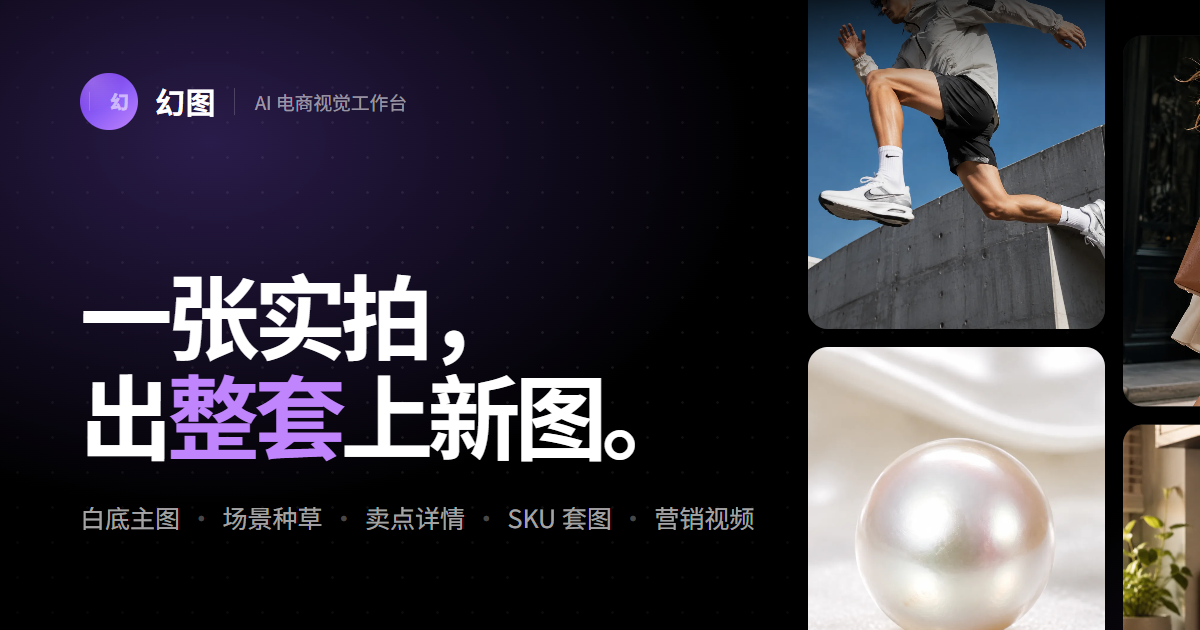
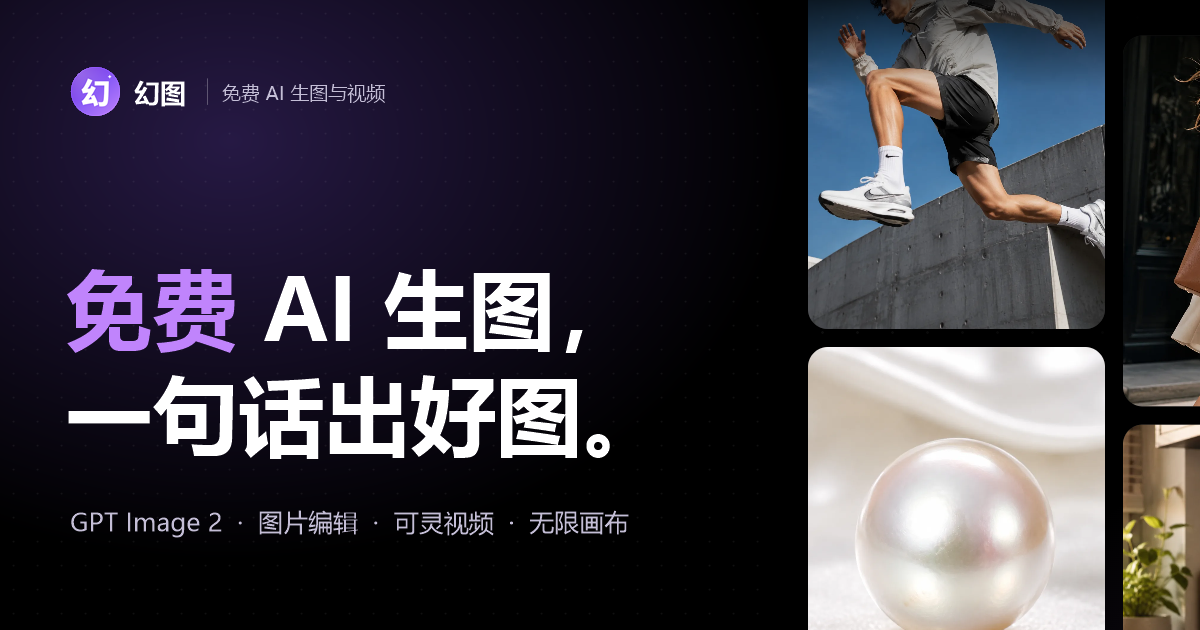
feat(web): position the site as free AI image and video generation

Changed region(s): [[0.0617, 0.4222, 0.555, 0.754], [0.0617, 0.7841, 0.6475, 0.8444], [0.0617, 0.0905, 0.3392, 0.2111]]

diff --git a/web/src/app/(user)/page.tsx b/web/src/app/(user)/page.tsx
@@ -22,11 +22,11 @@ const heroColumns = Array.from({ length: 3 }, (_, column) => heroMedia.filter((_
 const galleryColumns = Array.from({ length: 5 }, (_, column) => galleryMedia.filter((_, index) => index % 5 === column));
 const galleryRatios = ["aspect-[3/4]", "aspect-square", "aspect-[4/5]", "aspect-[5/4]", "aspect-[2/3]"];
 const galleryOffsets = ["pt-0", "pt-8", "pt-16", "pt-5", "pt-11"];
-const capabilityNames = ["图片生成", "营销视频", "无限画布", "灵感模板", "商品素材", "模型广场"];
+const capabilityNames = ["GPT Image 2", "可灵视频", "图片编辑", "无限画布", "灵感模板", "API 接入"];
 const workflow = [
-    { step: "01", title: "上传实拍", detail: "一张商品图就够，包装、Logo 和品牌素材可选。" },
-    { step: "02", title: "选择用途", detail: "白底主图、场景图或详情图，也可以自己描述画面。" },
-    { step: "03", title: "挑选交付", detail: "选出满意的图直接下载上架，或继续出整套。" },
+    { step: "01", title: "写一句话", detail: "描述想要的画面，或上传一张参考图。" },
+    { step: "02", title: "选择模型", detail: "GPT Image 2 出图改图，可灵 Kling 生成视频，都免费。" },
+    { step: "03", title: "下载或继续改", detail: "满意就直接下载，也能放进无限画布接着创作。" },
 ];
 
 export default function IndexPage() {
@@ -51,18 +51,14 @@ export default function IndexPage() {
         <main className="h-full overflow-y-auto bg-background text-foreground">
             <section className="overflow-hidden border-b border-border px-4 pb-8 pt-8 sm:px-8 lg:px-12">
                 <div className="mx-auto max-w-[1320px]">
-                    <motion.div initial={reducedMotion ? false : { opacity: 0, y: 12 }} animate={{ opacity: 1, y: 0 }} transition={{ duration: 0.5 }} className="max-w-3xl">
-                        <p className="text-xs font-medium uppercase tracking-[.2em] text-primary">电商上新 AI 工作台</p>
-                        <h1 className="mt-3 text-[34px] font-semibold leading-[1.12] tracking-[-.05em] sm:text-[44px]">一张实拍，出整套上新图。</h1>
-                        <p className="mt-3 max-w-xl text-sm leading-6 text-muted-foreground">上传商品图，生成白底主图、场景种草、卖点详情和 SKU 套图，直接用于上架。</p>
+                    <motion.div initial={reducedMotion ? false : { y: 12 }} animate={{ y: 0 }} transition={{ duration: 0.5 }} className="max-w-3xl">
+                        <p className="text-xs font-medium uppercase tracking-[.2em] text-primary">幻图 · 免费 AI 生图</p>
+                        <h1 className="mt-3 text-[34px] font-semibold leading-[1.12] tracking-[-.05em] sm:text-[44px]">免费 AI 生图，一句话出好图。</h1>
+                        <p className="mt-3 max-w-xl text-sm leading-6 text-muted-foreground">用 GPT Image 2 文生图、图生图和改图，用可灵 Kling 生成视频，注册即可免费使用。</p>
                         <div className="mt-6 flex flex-wrap items-center gap-4">
-                            <Link
-                                href="/image?preset=product-main"
-                                prefetch={false}
-                                className="flex min-h-12 min-w-0 items-center gap-3 rounded-xl border border-border bg-card px-4 text-sm text-muted-foreground transition hover:border-primary/30 sm:min-w-[360px]"
-                            >
+                            <Link href="/image" prefetch={false} className="flex min-h-12 min-w-0 items-center gap-3 rounded-xl border border-border bg-card px-4 text-sm text-muted-foreground transition hover:border-primary/30 sm:min-w-[360px]">
                                 <Sparkles className="size-4 shrink-0 text-primary" />
-                                <span className="flex-1">上传商品图，先出一张白底主图</span>
+                                <span className="flex-1">输入一句话，免费生成第一张图</span>
                                 <span className="grid size-8 shrink-0 place-items-center rounded-lg bg-primary text-primary-foreground">
                                     <ArrowUpRight className="size-4" />
                                 </span>
@@ -86,7 +82,7 @@ export default function IndexPage() {
                                 >
                                     {column.map((src, index) => (
                                         <Link key={`${src}-${index}`} href="/image?preset=product-main" prefetch={false} className="group relative block aspect-[4/5] overflow-hidden rounded-xl border border-border bg-card">
-                                            <NextImage src={src} alt="AI 商品视觉作品" fill sizes="(max-width: 640px) 50vw, (max-width: 1024px) 33vw, 33vw" className="object-cover transition duration-700 group-hover:scale-[1.05]" />
+                                            <NextImage src={src} alt="AI 生成的图片作品" fill loading="eager" sizes="(max-width: 640px) 50vw, (max-width: 1024px) 33vw, 33vw" className="object-cover transition duration-700 group-hover:scale-[1.05]" />
                                         </Link>
                                     ))}
                                 </motion.div>
@@ -113,8 +109,8 @@ export default function IndexPage() {
             <section className="mx-auto max-w-[1360px] px-5 py-20 sm:px-8 lg:px-12">
                 <div className="mb-8 max-w-2xl">
                     <p className="text-xs font-medium uppercase tracking-[.18em] text-primary">精选作品</p>
-                    <h2 className="mt-3 text-3xl font-semibold tracking-[-.04em] sm:text-4xl">一件商品，不止一张图。</h2>
-                    <p className="mt-3 max-w-xl text-sm leading-6 text-muted-foreground">看看不同品类、材质和风格的成品效果，点击任意一张，用同款方式做你的商品。</p>
+                    <h2 className="mt-3 text-3xl font-semibold tracking-[-.04em] sm:text-4xl">看看 AI 生成的效果。</h2>
+                    <p className="mt-3 max-w-xl text-sm leading-6 text-muted-foreground">不同题材和风格的成品，点击任意一张，用同样的方式开始创作。</p>
                 </div>
                 <div className="grid grid-cols-2 items-start gap-3 overflow-hidden sm:grid-cols-3 lg:grid-cols-5">
                     {galleryColumns.map((column, columnIndex) => (
@@ -140,7 +136,7 @@ export default function IndexPage() {
                                         <div className={`relative ${galleryRatios[(index + columnIndex) % galleryRatios.length]}`}>
                                             <NextImage
                                                 src={src}
-                                                alt={`AI 商品视觉作品 ${index + heroCount + 1}`}
+                                                alt={`AI 生成的图片作品 ${index + heroCount + 1}`}
                                                 fill
                                                 sizes="(max-width: 640px) 50vw, (max-width: 1024px) 33vw, 20vw"
                                                 className="object-cover transition duration-700 group-hover:scale-[1.045]"
@@ -160,9 +156,9 @@ export default function IndexPage() {
 
             <motion.section initial={reducedMotion ? false : { opacity: 0, y: 40 }} whileInView={{ opacity: 1, y: 0 }} viewport={{ once: true, amount: 0.18 }} transition={{ duration: 0.7 }} className="mx-auto max-w-[1360px] px-5 py-20 sm:px-8 lg:px-12">
                 <div className="mb-8 max-w-2xl">
-                    <p className="text-xs font-medium uppercase tracking-[.18em] text-primary">使用场景</p>
-                    <h2 className="mt-3 text-3xl font-semibold tracking-[-.04em] sm:text-4xl">选择任务，马上开始。</h2>
-                    <p className="mt-3 max-w-xl text-sm leading-6 text-muted-foreground">每个入口都预设好对应的提示词和参数，不用从空白开始。</p>
+                    <p className="text-xs font-medium uppercase tracking-[.18em] text-primary">常用模板</p>
+                    <h2 className="mt-3 text-3xl font-semibold tracking-[-.04em] sm:text-4xl">选个模板，马上开始。</h2>
+                    <p className="mt-3 max-w-xl text-sm leading-6 text-muted-foreground">白底图、场景图、模特图等常用场景都预设好了提示词，不用从空白开始。</p>
                 </div>
                 <div className="grid gap-6 lg:grid-cols-[280px_minmax(0,1fr)] lg:gap-8">
                     <div className="divide-y divide-border border-y border-border">
@@ -215,8 +211,8 @@ export default function IndexPage() {
                     transition={{ duration: 0.65 }}
                     className="mx-auto max-w-[1360px] px-5 py-16 sm:px-8 sm:py-20 lg:px-12"
                 >
-                    <p className="text-xs font-medium uppercase tracking-[.18em] text-primary">上新流程</p>
-                    <h2 className="mt-3 text-3xl font-semibold tracking-[-.04em] sm:text-4xl">三步，完成一次上新。</h2>
+                    <p className="text-xs font-medium uppercase tracking-[.18em] text-primary">使用流程</p>
+                    <h2 className="mt-3 text-3xl font-semibold tracking-[-.04em] sm:text-4xl">三步，免费出图。</h2>
                     <div className="relative mt-10 grid gap-8 sm:grid-cols-3 sm:gap-6">
                         <div className="pointer-events-none absolute left-[8%] right-[8%] top-4 hidden border-t border-border sm:block" />
                         {workflow.map((item, index) => (
@@ -282,9 +278,9 @@ export default function IndexPage() {
 
             <motion.section initial={reducedMotion ? false : { opacity: 0, y: 30 }} whileInView={{ opacity: 1, y: 0 }} viewport={{ once: true }} className="border-t border-border px-6 py-16 text-center sm:px-10 sm:py-20">
                 <Sparkles className="mx-auto size-5 text-primary" />
-                <h2 className="mx-auto mt-4 max-w-2xl text-3xl font-semibold tracking-[-.04em] sm:text-4xl">下一款新品，从一张实拍开始。</h2>
-                <Link href="/image?preset=product-main" prefetch={false} className="mt-8 inline-flex min-h-11 items-center gap-2 rounded-lg bg-primary px-6 text-sm font-semibold text-primary-foreground transition hover:bg-primary/90">
-                    上传商品图开始 <ArrowUpRight className="size-4" />
+                <h2 className="mx-auto mt-4 max-w-2xl text-3xl font-semibold tracking-[-.04em] sm:text-4xl">现在就免费生成第一张图。</h2>
+                <Link href="/image" prefetch={false} className="mt-8 inline-flex min-h-11 items-center gap-2 rounded-lg bg-primary px-6 text-sm font-semibold text-primary-foreground transition hover:bg-primary/90">
+                    免费开始生图 <ArrowUpRight className="size-4" />
                 </Link>
             </motion.section>
 

diff --git a/web/src/app/layout.tsx b/web/src/app/layout.tsx
@@ -8,8 +8,8 @@ import "antd/dist/reset.css";
 import "./globals.css";
 import React from "react";
 
-const siteTitle = "幻图 - 一张实拍，出整套电商上新图";
-const siteDescription = "上传一张商品实拍，AI 生成白底主图、场景种草图、卖点详情图、SKU 套图和营销视频。面向淘宝、拼多多、抖店卖家与电商运营的 AI 视觉工作台。";
+const siteTitle = "幻图 - 免费 AI 生图与视频生成，支持 GPT Image 2、可灵 Kling";
+const siteDescription = "幻图是免费的在线 AI 生图网站：用 GPT Image 2 文生图、图生图和改图，用可灵 Kling 4.0 生成视频，还能在无限画布上排版创作，并提供兼容 OpenAI SDK 的 API。注册即可免费使用。";
 const ogImage = { url: "/og.png", width: 1200, height: 630, alt: siteTitle };
 const jsonLd = JSON.stringify({
     "@context": "https://schema.org",
@@ -21,10 +21,10 @@ const jsonLd = JSON.stringify({
 
 export const metadata: Metadata = {
     metadataBase: new URL(SITE_URL),
-    title: siteTitle,
+    title: { default: siteTitle, template: "%s - 幻图" },
     description: siteDescription,
     alternates: { canonical: "./" },
-    keywords: ["幻图", "AI 商品图", "电商主图生成", "白底图", "场景图", "详情页", "SKU 套图", "营销视频", "AI 电商工具"],
+    keywords: ["幻图", "幻图AI", "免费AI生图", "AI生图", "AI绘画", "GPT Image 2", "gpt-image-2", "可灵", "Kling", "AI视频生成", "无限画布", "AI生图API"],
     openGraph: { type: "website", locale: "zh_CN", url: "/", siteName: "幻图", title: siteTitle, description: siteDescription, images: [ogImage] },
     twitter: { card: "summary_large_image", title: siteTitle, description: siteDescription, images: [ogImage] },
     icons: { icon: [{ url: "/brand-mark.png", type: "image/png" }], apple: "/brand-mark.png" },

diff --git a/web/src/app/(user)/api-docs/layout.tsx b/web/src/app/(user)/api-docs/layout.tsx
@@ -1,0 +1,11 @@
+import type { Metadata } from "next";
+import type { ReactNode } from "react";
+
+export const metadata: Metadata = {
+    title: "模型广场与 API 接入",
+    description: "查看幻图可用的 AI 生图和视频模型，用兼容 OpenAI SDK 的接口免费调用 GPT Image 2、可灵 Kling 等模型。",
+};
+
+export default function ApiDocsLayout({ children }: { children: ReactNode }) {
+    return children;
+}

diff --git a/web/src/app/(user)/api-docs/integration/layout.tsx b/web/src/app/(user)/api-docs/integration/layout.tsx
@@ -1,0 +1,11 @@
+import type { Metadata } from "next";
+import type { ReactNode } from "react";
+
+export const metadata: Metadata = {
+    title: "API 接入文档",
+    description: "幻图 API 接入说明：把 OpenAI 官方 SDK 的 base_url 设为幻图地址，即可调用图片、视频和音频生成接口。",
+};
+
+export default function ApiIntegrationLayout({ children }: { children: ReactNode }) {
+    return children;
+}

diff --git a/web/src/app/(user)/prompts/layout.tsx b/web/src/app/(user)/prompts/layout.tsx
@@ -1,0 +1,11 @@
+import type { Metadata } from "next";
+import type { ReactNode } from "react";
+
+export const metadata: Metadata = {
+    title: "AI 生图提示词与灵感模板",
+    description: "收录 GPT Image 2 等模型的 AI 生图提示词和效果图，复制提示词即可在幻图免费生成。",
+};
+
+export default function PromptsLayout({ children }: { children: ReactNode }) {
+    return children;
+}

diff --git a/AGENTS.md b/AGENTS.md
@@ -41,7 +41,8 @@
 - 多个页面重复出现的 UI 副作用动作，例如复制文本并提示、下载并提示、统一确认弹窗，优先抽成 `web/src/hooks/` 下的全局 hook；不要放进 store，除非它确实是需要共享/订阅的状态。
 - 画布相关状态和组件放在 `web/src/app/(user)/canvas/` 内部。
 - 页面里只有一个主业务组件时直接写在 `page.tsx`，不要单独拆 `Manager` 组件再传一堆 props。
-- 不要新增只做简单转发的组件，例如只 `return <X>{children}</X>` 或只换个名字透传 props；直接在使用处使用真实组件或把逻辑写进当前文件。
+- 不要新增只做简单转发的组件，例如只 `return <X>{children}</X>` 或只换个名字透传 props；直接在使用处使用真实组件或把逻辑写进当前文件。唯一例外：客户端页面需要独立的 SEO 标题和描述时，可在该路由目录新增只导出 `metadata` 并直接 `return children` 的 `layout.tsx`。
+- 新增公开页面时同步加入 `web/src/app/sitemap.ts`；新增需要登录的路由前缀时同步加入 `web/src/app/robots.ts` 的 `disallow`。
 - 页面私有 hook 放在对应页面目录下，例如 `admin/assets/use-admin-assets.ts`；只有多个页面真实复用的 hook 才放到外层 `hooks/`。
 - 管理后台页面私有组件放到各自页面目录的 `components/` 下，例如 `admin/assets/components/`、`admin/prompts/components/`；不要为了单页面使用放到 `admin/components/` 共享目录。
 - 管理后台主题、背景、卡片阴影、表格配色等统一在 `web/src/lib/app-theme.ts`、`AppProviders` 或必要的全局 CSS 作用域中配置；页面私有组件不要自己写 `dark ? ...` 主题分支。

diff --git a/CHANGELOG.md b/CHANGELOG.md
@@ -4,6 +4,8 @@
 
 ## Unreleased
 
++ [优化] 首页、站点标题和分享图改为免费 AI 生图定位，灵感模板、模型广场和 API 文档使用独立标题；首屏文字直接出现在页面 HTML 中，首屏作品图优先加载。
+
 + [优化] 搜索引擎收录：新增 robots.txt 与 sitemap.xml，页面输出规范地址和站点结构化数据，副域名的页面统一指向 huantu.xyz。
 
 + [修复] 运营看板的今日波形按北京时间分小时。服务器使用 UTC 时，晚上的生成不再被画到上午。
